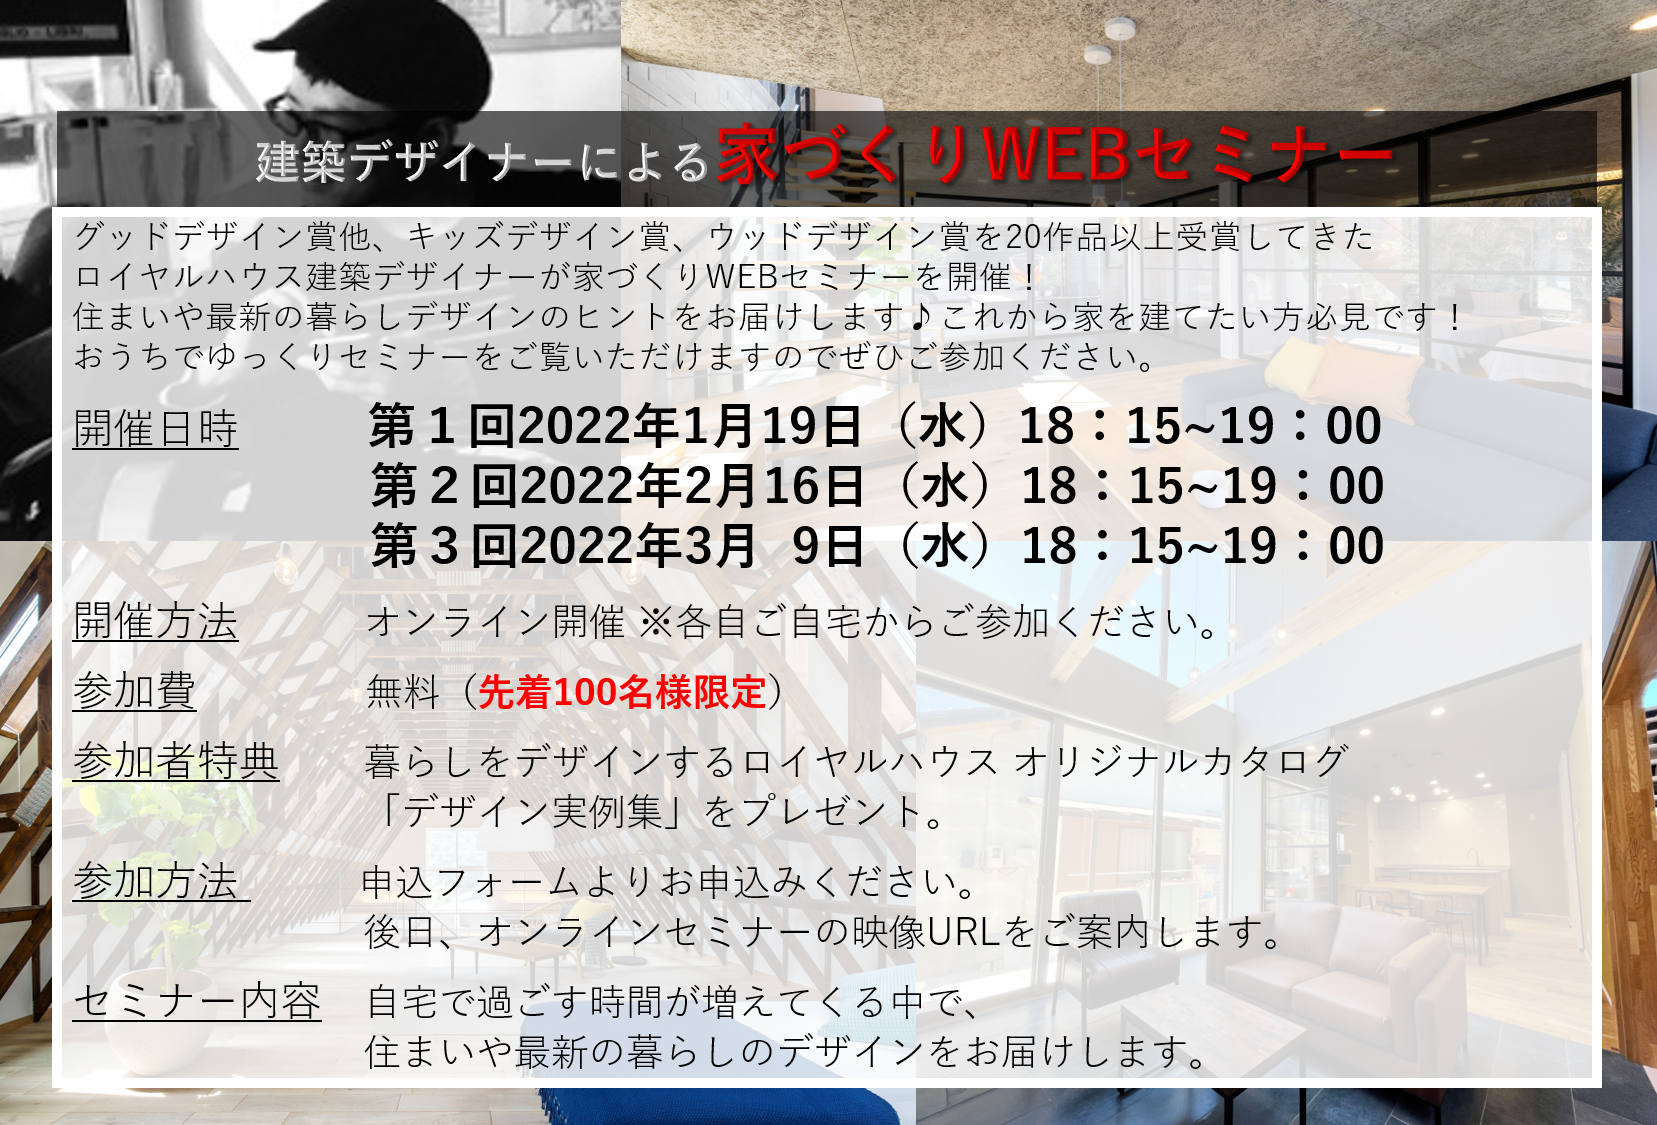
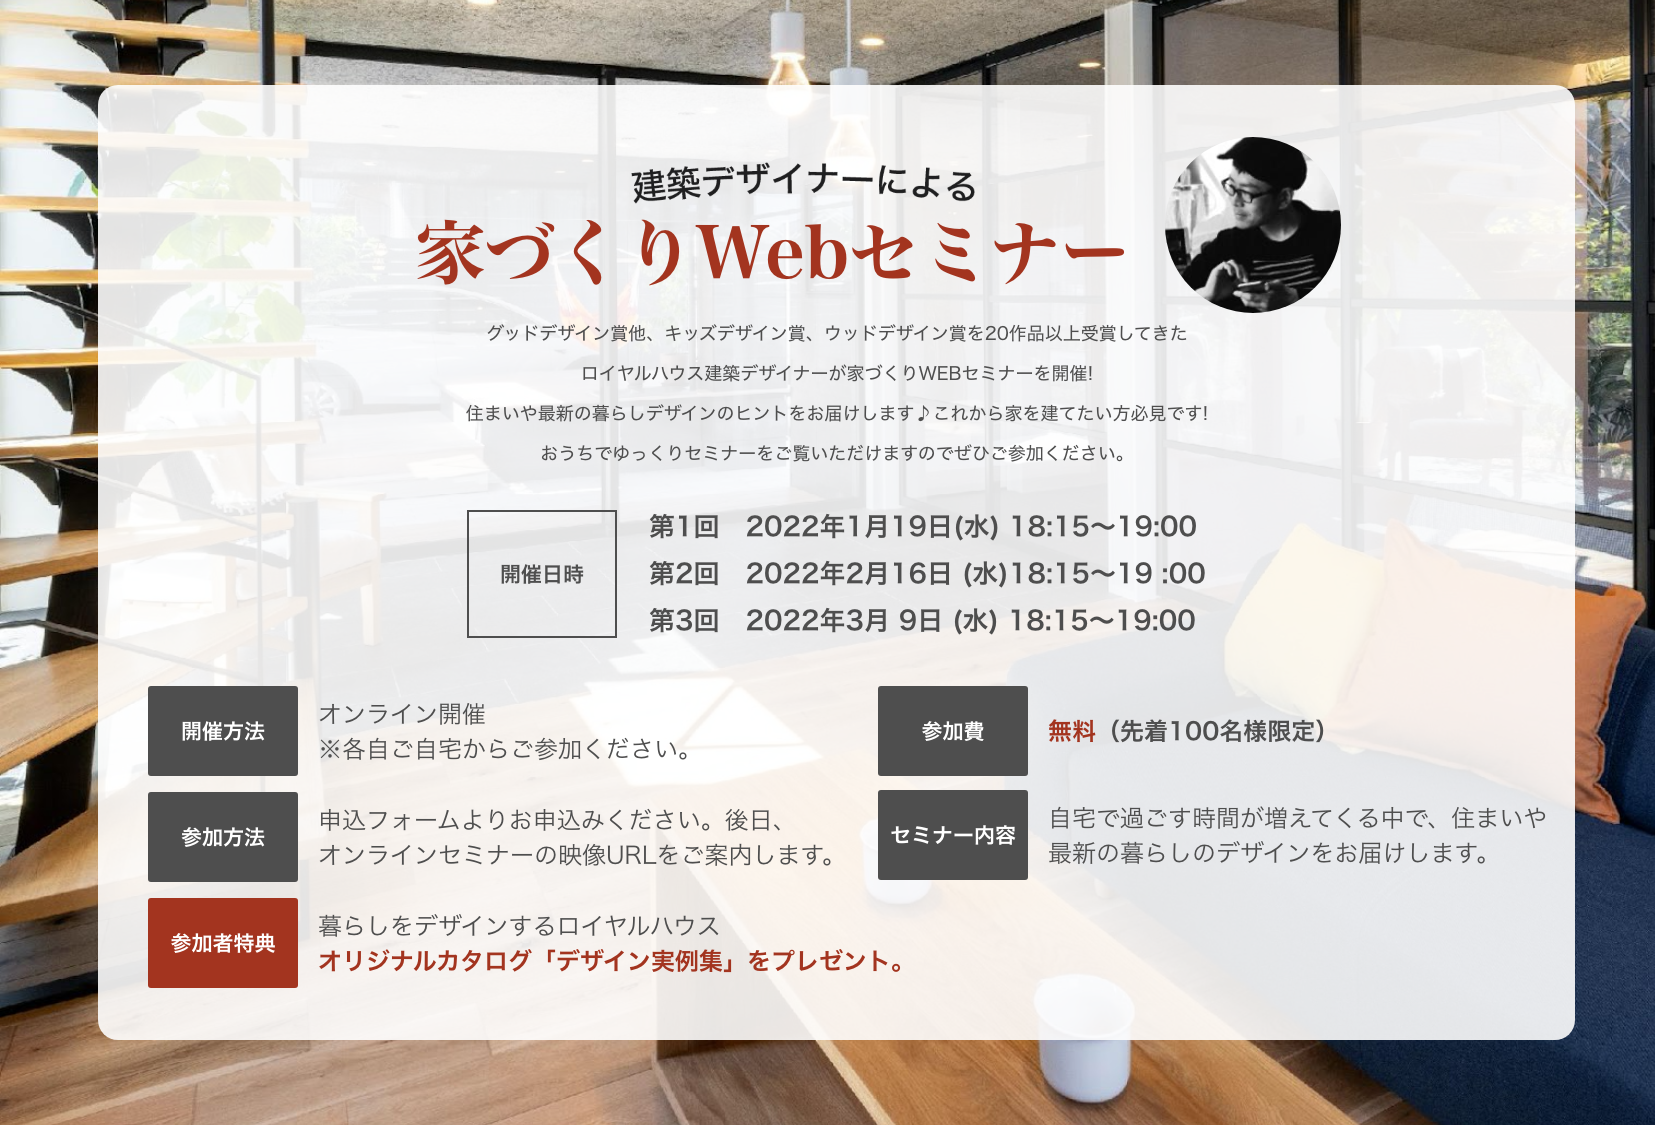
フォーム・バナー修正

diff --git a/src/components/layout.js b/src/components/layout.js
@@ -30,7 +30,7 @@ const Layout = ({ children }) => {
       <Header siteTitle={data.site.siteMetadata?.title || `Title`} />
       <main className="l-main">{children}</main>
        <div className="campaign-bnr">
-       <Link to="/35campaign/" target="_blank" className="map-balloon__link" activeClassName="is-current"><img src={withPrefix("/images/campaign-bnr-pc.jpg")} alt="35周年記念記念キャンペーンはこちら" className="pc" /><img src={withPrefix("/images/campaign-bnr-sp.jpg")} alt="35周年記念記念キャンペーンはこちら" className="sp" /></Link>
+       <Link to="/seminar_entry/" target="_blank" className="map-balloon__link" activeClassName="is-current"><img src={withPrefix("/images/seminar-bnr-pc.jpg")} alt="オンラインセミナーはこちら" className="pc" /><img src={withPrefix("/images/seminar-bnr-sp.jpg")} alt="オンラインセミナーはこちら" className="sp" /></Link>
   </div>
       
       <div className="yt-modal--main" style={{display:'none'}}>

diff --git a/src/pages/entry.js b/src/pages/entry.js
@@ -29,7 +29,7 @@ const SecondPage = () => (
     <Link to="/entry/"><img src={withPrefix("/images/campaign/campaign-main.png")} alt="35周年記念記念キャンペーン 対象商品はこちら" className="pc" /><img src={withPrefix("/images/campaign/campaign-main-sp.png")} alt="35周年記念記念キャンペーン 対象商品はこちら" className="sp" /></Link>
     </div>
     <p className="entry-intro">※エントリ―後、ご登録メールアドレスに応募詳細・応募申込フォームをお送りいたします。<br/>※応募フォームで応募コースをお選びいただきます。</p>
-    <h2>エントリーフォーム</h2>
+    <h2>申し込みフォーム</h2>
     <form id="mailformpro" action="../mail-entry.php" method="POST">
                 <div className="form-group row">
                   <div className="col-12 col-sm-4 required"><label for="MfpField_04">メールアドレス</label></div>
